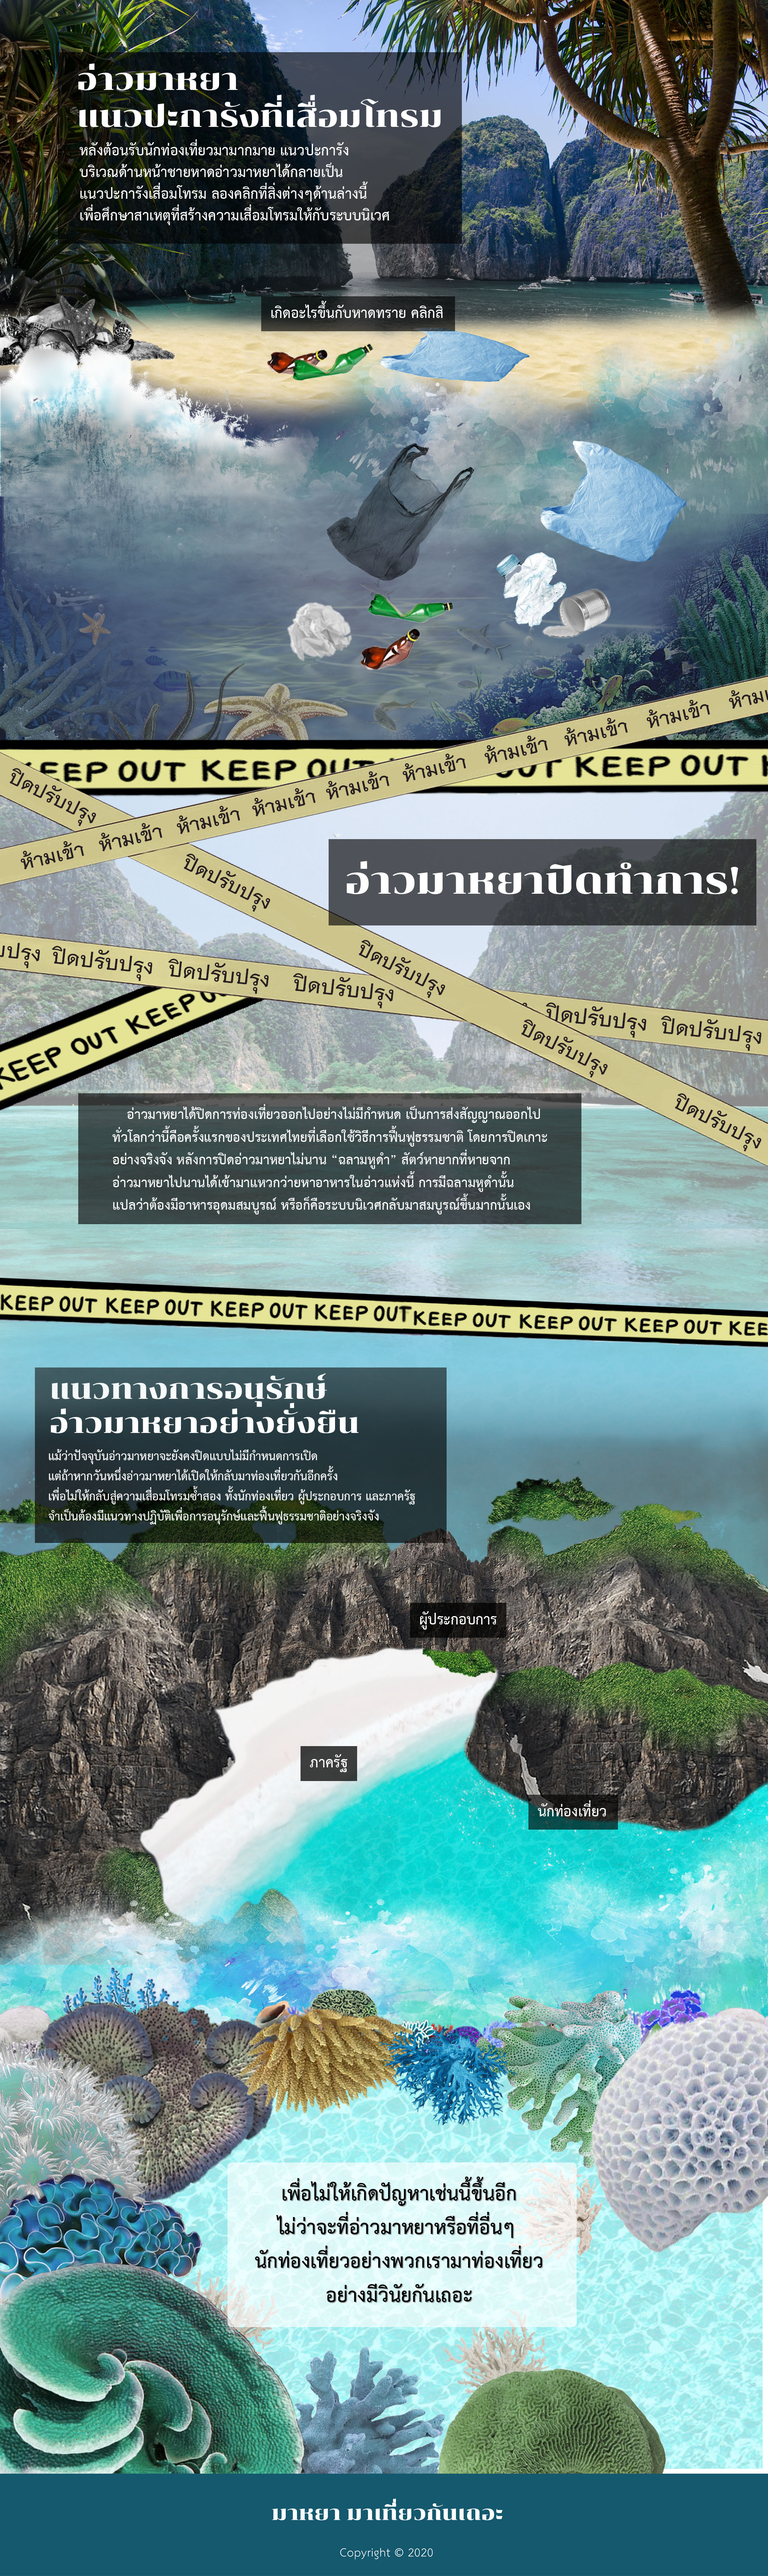
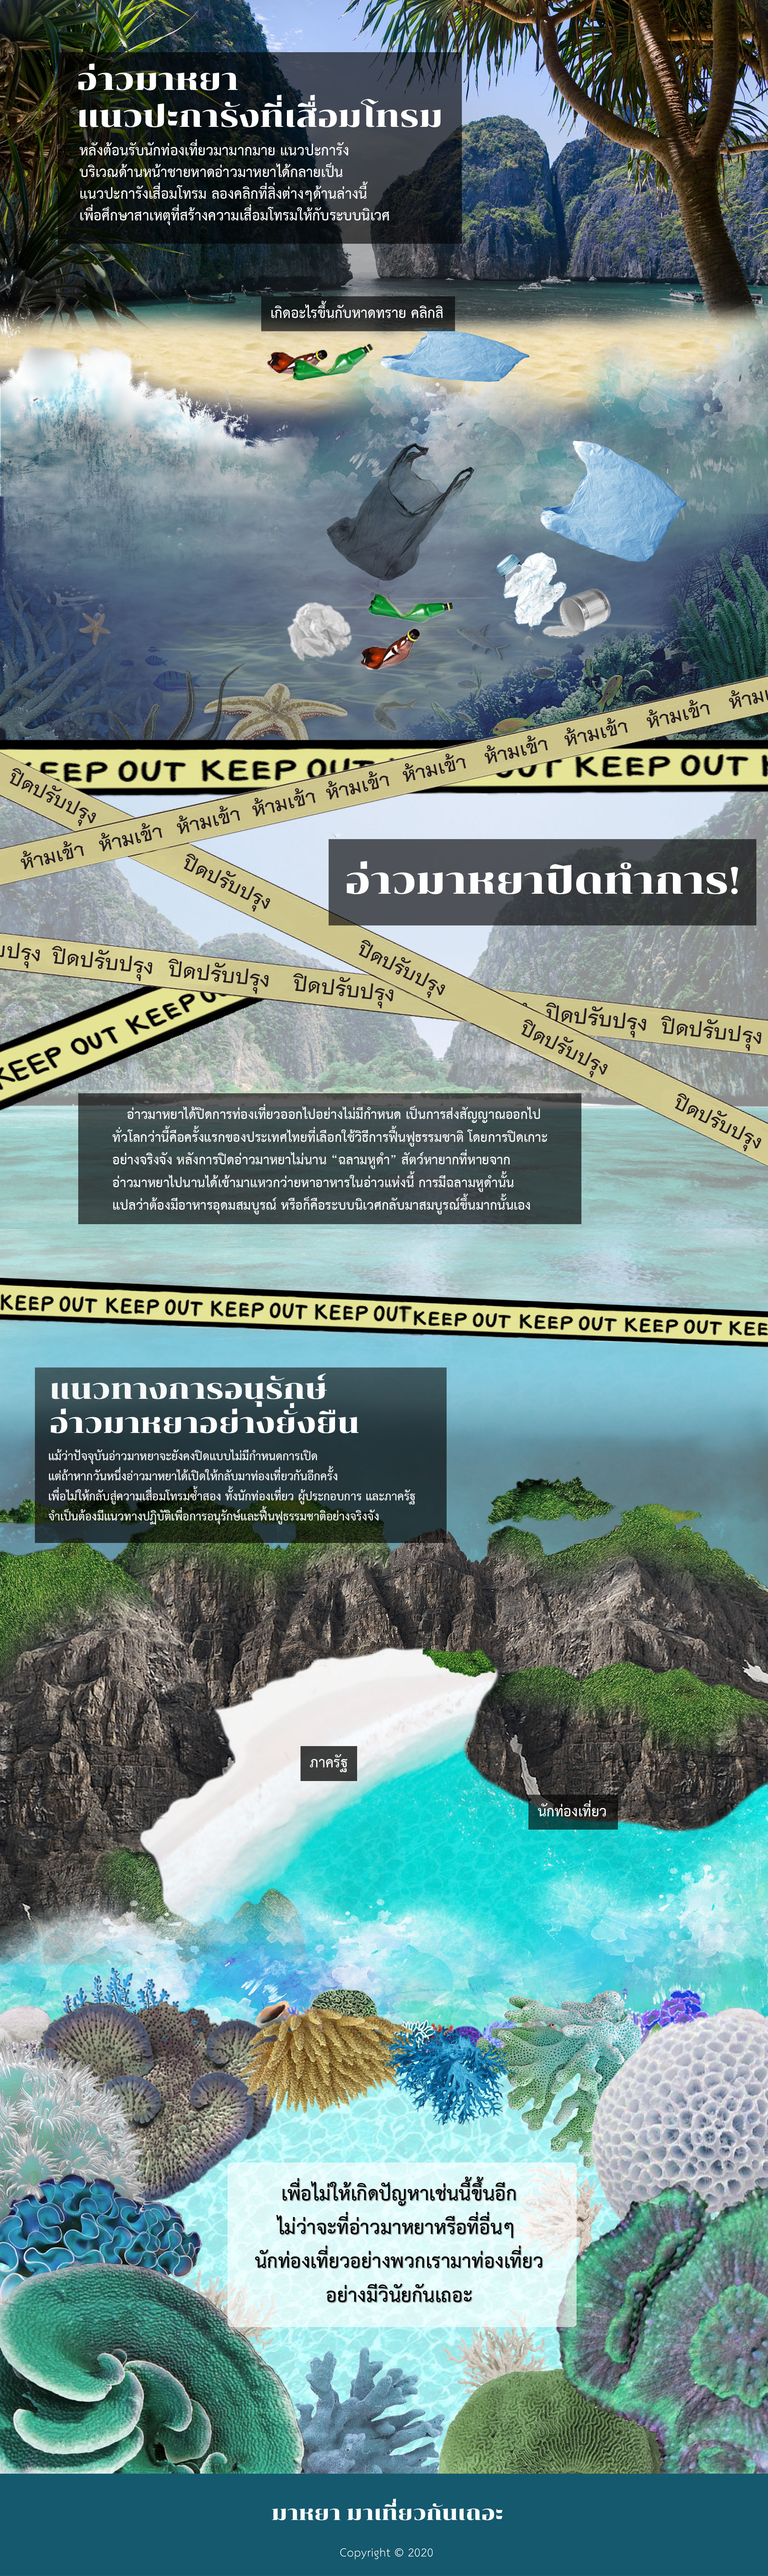
finish layout page 3

Changed region(s): [[0.709, 0.8416, 1.0, 0.9663], [0.0, 0.0935, 0.2158, 0.1559], [0.524, 0.6234, 0.6782, 0.6546]]

diff --git a/style.css b/style.css
@@ -14,6 +14,8 @@
   width: 1920px;
   height: 4934px;
   z-index: 0;
+  position: absolute;
+  top: 0;
 
 }
 .bg4{
@@ -65,13 +67,13 @@
 .set04{
   position: absolute;
   width: auto;
-  height: 4934px;
-  z-index: 4;
-  top: 0;
+  height: 640px;
+  z-index: 12;
+  top: 1700px;
 }
 .set05{
   position: absolute;
-  width: 100%;
+  width: auto;
   height: 4934px;
   z-index: 3;
   top: 0;
@@ -203,6 +205,7 @@
   width: auto;
   height: 320px;
   z-index: 10;
+  transition: 0.5s;
 }
 @keyframes Eff1 { 
   0%   { left: 300px; transform: scale(1,1); top: 690px;}
@@ -219,16 +222,42 @@
 .Eff2{
   position: absolute;
   animation: Eff2 10s linear infinite;
-  top: 750px;
-  left: -50px;
-  width: auto;
-  height: ;
-  z-index: 2;
+  top: 730px;
+  left: -60px;
+  z-index: 10;
+  transition: 0.5s;
 }
 @keyframes Eff2{
 
 }
-.Eff1:hover , .Eff2:hover, .SP1:hover , .SP2:hover , .setpun1:hover {
+<<<<<<< Updated upstream
+.Eff3{
+  position: absolute;
+  animation: Eff3 10s linear infinite;
+  top: 830px;
+  right: -40px;
+  z-index: 8;
+  width: auto;
+  height: 430px;
+  transition: 0.5s;
+}
+@keyframes Eff3{
+
+}
+.Eff4{
+  position: absolute;
+  animation: Eff4 10s linear infinite;
+  top: 1100px;
+  right: 150px;
+  z-index: 8;
+  width: auto;
+  height: 500px;
+  transition: 0.5s;
+}
+@keyframes Eff4{
+
+}
+.Eff1:hover , .Eff2:hover , .Eff3:hover, .Eff4:hover , .SP1:hover , .SP2:hover , .setpun1:hover , .SP4:hover , .SP5:hover , .SP6:hover{
     cursor: url(rc.cur), auto;
     filter: drop-shadow(0 0 50px crimson);
 }
@@ -256,6 +285,12 @@
   left: 300px;
   top: 1300px;
 }
+.setpun5{
+  position: absolute;
+  z-index: 4;
+  left: 950px;
+  top: 4000px;
+}
 .SP1{
   transition: 0.5s;
   position: absolute;
@@ -275,4 +310,30 @@
   z-index: 4;
   left: 1400px;
   top: 3100px;
+}
+.SP7{
+  position: absolute;
+  z-index: 4;
+  left: 1500px;
+  top: 6000px;
+}
+.SP4{
+  transition: 0.5s;
+  position: absolute;
+  z-index: 4;
+  left: 650px;
+  top: 4000px;
+}
+.SP5{
+  transition: 0.5s;
+  position: absolute;
+  z-index: 4;
+  left: 600px;
+  top: 4300px;
+}
+.SP6{
+  position: absolute;
+  z-index: 4;
+  left: 1200px;
+  top: 4600px;
 }

diff --git a/page3.html b/page3.html
@@ -15,13 +15,18 @@
 	<div class="bgpun">
 		
 	</div>
-	<img src="img/Page3/egg.png" class="SP1">
-	<img src="img/Page3/pang.png" class="SP2">
-	<img src="img/Page3/NBT1.png" class="SP3">
-	<img src="img/Page3/boat.png" class="setpun1">
+	<img src="img/Page3/egg.png" class="SP1"><!--ขยะ-->
+	<img src="img/Page3/pang.png" class="SP2"><!--ขวดแป้ง-->
+	<img src="img/Page3/NBT1.png" class="SP3"><!--ปุ่มแล้วหลังจากนี้เราจะเที่ยวยังไงกันดี-->
+	<img src="img/Page3/NBT2.png" class="SP7"><!--ปุ่มกลับหน้าแรก-->
+	<img src="img/Page3/house.png" class="SP4"><!--รูปบ้าน-->
+	<img src="img/Page3/human.png" class="SP5"><!--ภาครัฐ-->
+	<img src="img/Page3/boat2.png" class="SP6"><!--เรือนักท่องเที่ยว-->
+	<img src="img/Page3/boat.png" class="setpun1"> <!--เรือ-->
 	<img src="img/Page3/coral.png" class="setpun2">
 	<img src="img/Page3/font3.png" class="setpun3">
 	<img src="img/Page3/font4.png" class="setpun4">
+	<img src="img/Page3/Text2.png" class="setpun5">
 
 	<map name="workmap">
 	  <area shape="rect" coords="34,44,270,350" class="SP1">
